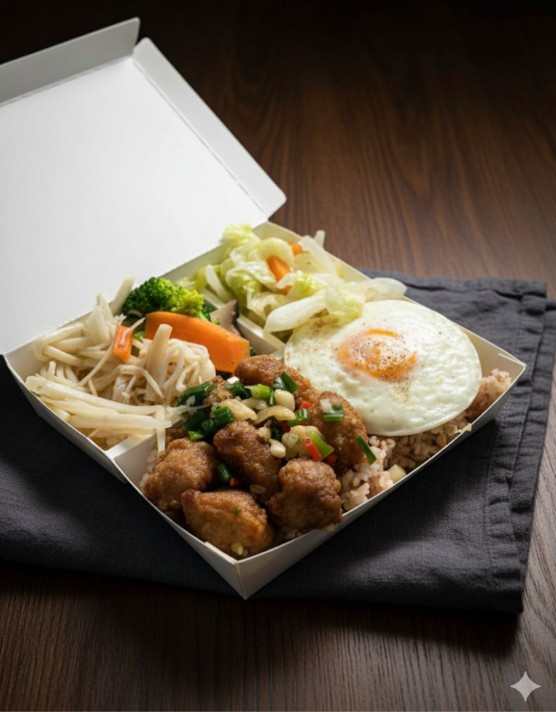
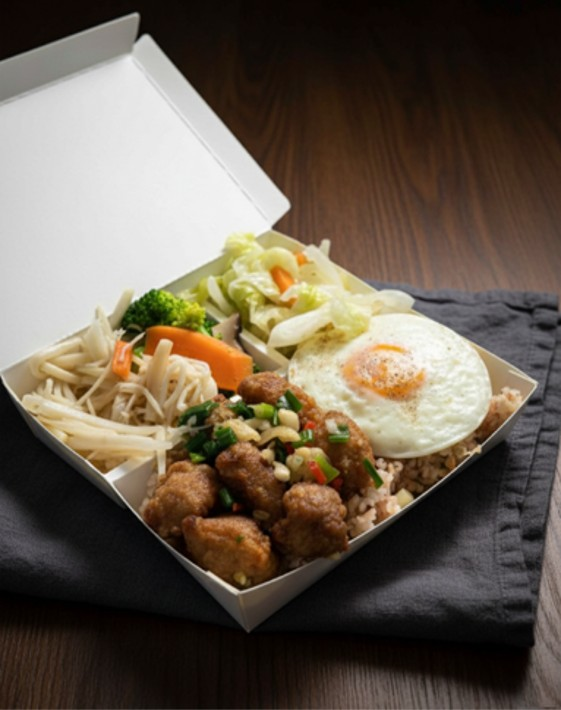
202510022016

diff --git a/src/App.jsx b/src/App.jsx
@@ -165,7 +165,7 @@ const Menu = () => {
   const items = [
     { id: 'm1', name: '薑燒梅花豬便當', desc: '溫潤香氣，微辛回甘', price: '95up', img: "/p1-1.jpg" },
     { id: 'm2', name: '一般豬排便當', desc: '金黃誘人，油潤迷人', price: '90up', img: '/p2-1.jpg' },
-    { id: 'm3', name: '紅麴豬排便當', desc: '微甜麴香，色澤誘人', price: '100up', img: '/店徽.jpg' },
+    { id: 'm3', name: '紅麴豬排便當', desc: '微甜麴香，色澤誘人', price: '100up', img: '/p3.jpg' },
     { id: 'm4', name: '塔香三杯雞便當', desc: '濃郁層次，滑嫩多汁', price: '100up', img: '/p4.jpg' },
     { id: 'm5', name: '檸香烤雞腿便當', desc: '檸香清爽，肉質鮮嫩', price: '100up', img: '/p5-1.jpg' },
     { id: 'm6', name: '香煎虱目魚便當', desc: '海風氣息，酥香撲鼻', price: '150up', img: '/p6.jpg' },
